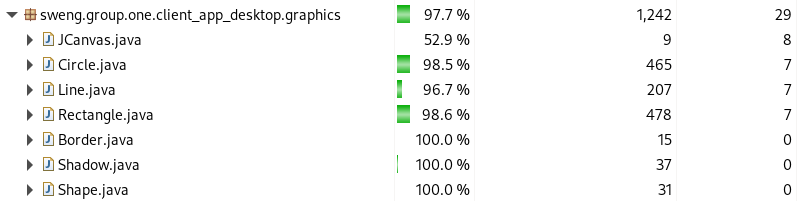
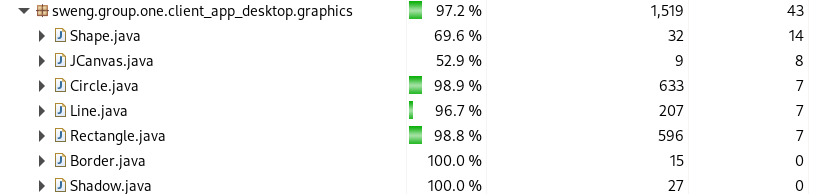
Update test report

diff --git a/src/test/java/sweng/group/one/client_app_desktop/graphics/ShadowTest.java b/src/test/java/sweng/group/one/client_app_desktop/graphics/ShadowTest.java
@@ -12,17 +12,6 @@ public class ShadowTest {
 	private static final int DX = 5;
 	private static final int DY = 55;
 	private static final int RADIUS = 69;
-
-	@Test
-	public void badRadiusThrowsException() {
-		assertThrows(IllegalArgumentException.class, () -> {
-			new Shadow(Color.BLACK, 0, 0, 200);
-		});
-		
-		assertThrows(IllegalArgumentException.class, () -> {
-			new Shadow(Color.BLACK, 0, 0, -1);
-		});
-	}
 	
 	@Test
 	public void gettersTest() {
